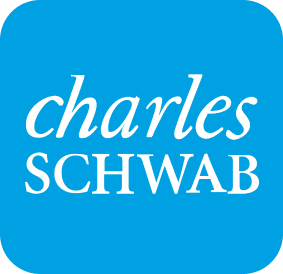
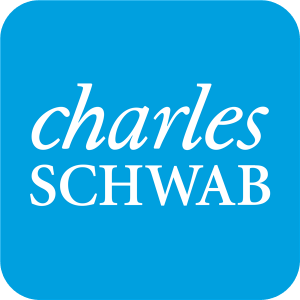
added new schwab image, changed image margin top, reworded

diff --git a/index.html b/index.html
@@ -165,7 +165,7 @@
         <div class="project-text">
           <h1>Charles Schwab</h1>
           <span> Associate Software Development & Engineering </span>
-          <span> • June 2025 </span>
+          <span> June 2025 </span>
           <br />
           <p>Java 🖥</p>
           <p>Git 🐙</p>
@@ -180,16 +180,16 @@
           <span> Software Engineer </span>
           <br />
           <span>
-            • Developed websites in JavaScript, HTML, and CSS for clients’
-            websites while communicating with a team of 3 UX/UI designers in
-            Figma, Adobe Illustrator, and Miro.
+            Developed websites in JavaScript, HTML, and CSS for client websites
+            with a team of 3 UX/UI designers in Figma, Adobe Illustrator, and
+            Miro.
           </span>
           <span>
-            • Refactored JavaScript for optimization resulting in a 25%
+            Refactored JavaScript for optimization resulting in a 25%
             improvement to site loading time and responsiveness.
           </span>
           <span>
-            • Early hire on to the startup team of 4 built on creativity and
+            Early hire on to the startup team of 4 built on creativity and
             problem solving.
           </span>
           <p>JavaScript 🖥</p>
@@ -207,16 +207,16 @@
           <span> Website Optimization Intern </span>
           <br />
           <span>
-            • Studied user testing data of JavaScript to optimize site
+            Studied user testing data of JavaScript to optimize site
             responsiveness across 15 mobile and desktop platforms and 4
             browsers.
           </span>
           <span>
-            • Implemented customer usability enhancements which increased
-            website conversion from 3% to 5.2%.
+            Implemented customer usability enhancements which increased website
+            conversion from 3% to 5.2%.
           </span>
           <span>
-            • Reviewed web page SEO with metadata for Google Analytics on over
+            Reviewed web page SEO with metadata for Google Analytics on over
             200+ pages.
           </span>
           <p>JavaScript 🖥</p>
@@ -297,8 +297,10 @@
           <p>Gameplay Programming 🎮</p>
           <p>GitHub 🐙</p>
           <p>Game Design 🎮</p>
-          <p>Javadocs ☕</p>
+          <p>Swing ☕</p>
           <p>Code Reviews 📝</p>
+          <p>JUnit ☕</p>
+          <p>Javadocs ☕</p>
         </div>
         <a
           class="project-img"

diff --git a/main.css b/main.css
@@ -178,7 +178,7 @@ a {
 }
 
 .project-img {
-  margin-top: 0;
+  margin-top: 5em;
   margin-left: 10em;
   padding-right: 5em;
   cursor: pointer;
